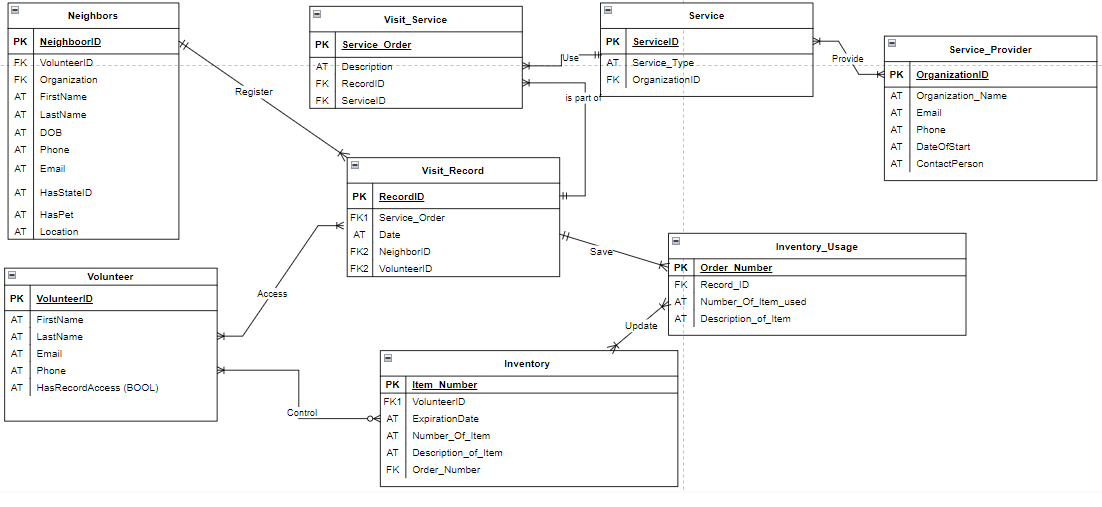
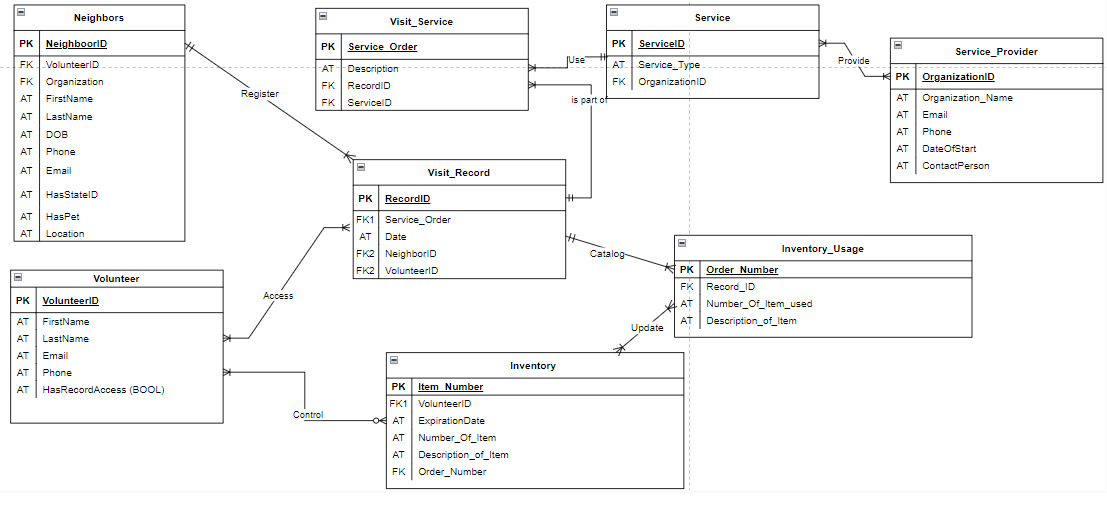
updated business rules and cardinalities

diff --git a/README.md b/README.md
@@ -15,17 +15,25 @@ UP data: Since UP is a local, small non-profit, the only data they want to use i
 
 ## Business Rules (both data and non-data) 
 
-A NEIGHBOR is registered by a VOLUNTEER on the VISIT RECORD only once on their second visit to UP, whereas the RECORD registers optional one NEIGHBOR by at least one VOLUNTEER.
+A NEIGHBOR is registered by a VOLUNTEER on the VISIT RECORD only once on their second visit to UP, whereas the RECORD registers only one NEIGHBOR by at least one VOLUNTEER.
 
-A NEIGHBOR can receive one VISIT SERVICE registration per action registered many times on the VISIT RECORD, and a VISIT SERVICE can be received by optional one NEIGHBOR registred optionally on the VISIT RECORD. 
+A VISIT SERVICE can be part of only one VISIT RECORD, and a VISIT RECORD can be part of many VISIT SERVICE. 
 
-A NEIGHBOR follows guidelines on the usage of INVENTORY items. The NEIGHBOR can acquire optional many items from the INVENTORY, whereas the INVENTORY may have a NEIGHBOR acquiring items optionally many times. 
+A VISIT SERVICE uses only one SERVICE, whereas a SERVICE is used in at least one VISIT SERVICE.
+
+A SERVICE PROVIDER provides at least one SERVICE, whereas a SERVICE can be provided by at least one SERVICE PROVIDER.
+
+The INVENTORY is controled by at least one VOLUNTEER, whereas a VOLUNTEER controls optional many INVENTORY items.
+
+The INVENTORY is updated by at least one INVENTORY USAGE form, whereas an INVENTORY USAGE log updates at least one INVENTORY item.
+
+The VISIT RECORD catalogs at least one INVENTORY USAGE, whereas an INVENTORY USAGE is cataloged by only one VISIT RECORD.
 
 An VOLUNTEER has access to many VISIT RECORD data, whereas the VISIT RECORD can be accessed by many VOLUNTEERS with access.
 
 Using the VISIT SERVICE, a VOLUNTEER can start a process to assist the NEIGHBOR in receiving many VISIT SERVICE. 
 
-A VISIT SERVICE is provided by optional one PARTNER ORGANIZATION, whereas a PARTNER ORGANIZATION can provide at least one SERVICE. The SERVICE is then tracked on the NEIGHBOR’s record and followed up as necessary by at least one UP ADMINISTRATOR. 
+A VISIT SERVICE is provided by one SERVICE PROVIDER , whereas a SERVICE PROVIDER can provide at least one SERVICE. The SERVICE is then tracked on the NEIGHBOR’s record and followed up as necessary by at least one UP ADMINISTRATOR. 
 
 
 ## Entity Names and Definitions
@@ -35,7 +43,6 @@ Attributes: NeighborID, FirstName, LastName, Date of Birth, phone, email HasStat
 
 Volunteer: a person who works at UP initiative and can or cannot have access to records.
 Attributes: VolunteerID, FirstName, LastName, Email, Phone, HasRecordAccess (bool)
-
 
 Visit Service: in order to catalog what activities UP is doing, the visit service registers what specific unique work was done to the Neighbor in consultation.
 Attributes: ServiceOrder, description, RecordID (foreignKey)
@@ -47,7 +54,7 @@ Service Providers: every organization that assist the neighbors, being UP itself
 Attributes: OrganizationID, Organization_Name, Email, Phone, DateofStart, ContactPerson.
 
 Service: The type of services that one organization can provide
-Attributes: ServiceID, Service_Type OrganizationID (foreign key)
+Attributes: ServiceID, Service_Type, OrganizationID (foreign key)
 
 Inventory: the organization has an inventory of clothing, hygiene kits, and food, and there are some guidelines about how many items can a neighbor have. These guidelines are always changing on a case-by-case basis. UP also envisions this process being automatize and displayed on their website so donors can see what the organization needs the most.
 Attributes: Item_Number, VolunteerID, ExpirationDate, NumerofItem, Description_of_Item
@@ -61,12 +68,11 @@ Attributes: Order_Number, RecordID (foreign key), NumberofItem, DescriptionOfIte
 ## Relationships
 
 ### Neighbors to Visit Records
-
 One-to-Many: A NEIGHBOR is registered in at least one VISIT_RECORD, and a VISIT_RECORD registers only one NEIGHBOR per entry.
 
 
 ### Visit Record to Visit Service
-One-to-Many: A VISIT_SERVICE is part of only one VISIT_RECORD, whereas a VISIT_RECORD is part of many VISIT_SERVICE.
+One-to-Many: A VISIT_SERVICE is part of at least one VISIT_RECORD, whereas a VISIT_RECORD is part of one VISIT_SERVICE.
 
 ### Visit Service to Service
 One-to-Many: A VISIT_SERVICE uses only one SERVICE, whereas a SERVICE can be used by many VISIT_SERVICE.
@@ -90,7 +96,7 @@ One-to-Many: A VOLUNTEER is controls optional many INVENTORY, whereas an INVENTO
 
 ## **Entity Relationship Diagram (ERD)**: 
 
-![brief alt text](/workspaces/client-project-up-unhoused-persons-initiative-team/Images/Schemas/Conceptual_Schema_v1.png)
+![brief alt text](Images/Schemas/Conceptual_Schema_v1.png)
 
 # Milestone 2: Project Schema Design
 **Learning Objective:** 
@@ -108,7 +114,7 @@ We would have been more specific with our attributes to prevent confusion. We al
 In order to reorganize our model, we created the entity called Visit Service, which serves to describe what was done during a neighbor visit to UP. Our information now is restructured in a way that the neighbor will be registered on the Visit Record through the Visit Service entity. Additionally, inventory usage is an entity to support information about which items of the inventory were used per visit record. Service Provider was added to ensure coherence with Service, which can be one of UP partners or UP itself. Since a service provider can have more than one service, we created an associative entity called "service" so the visit service has exactly which service was provided by which service provider. Visit record is the central piece of this diagram, and it contains the information regarding what happened in a certain day to a certain neighbor who sought UP assistance.
 
 ## Schema
-![brief alt text](/workspaces/client-project-up-unhoused-persons-initiative-team/Images/Schemas/Conceptual_Schema_04-03-2024.png)
+![brief alt text](Images/Schemas/Conceptual_Schema_04-03-2024.png)
 
 # Milestone 3: Data-Driven Application - Getting Started
 **Deliverable 1:**
@@ -142,16 +148,16 @@ R
 **Deliverable 3:** 
 3-4 data flow diagrams, each with 2 information needs depicted.
 Flow Diagram 1:
-![brief alt text](/workspaces/client-project-up-unhoused-persons-initiative-team/Images/Flow_Diagrams/Flow_Diagram_1.png)
+![brief alt text](Images/Flow_Diagrams/Flow_Diagram_1.png)
 
 Flow Diagram 2:
-![brief alt text](/workspaces/client-project-up-unhoused-persons-initiative-team/Images/Flow_Diagrams/Flow_Diagram_2.png)
+![brief alt text](Images/Flow_Diagrams/Flow_Diagram_2.png)
 
 Flow Diagram 3:
-![brief alt text](/workspaces/client-project-up-unhoused-persons-initiative-team/Images/Flow_Diagrams/Flow_Diagram_3.png)
+![brief alt text](Images/Flow_Diagrams/Flow_Diagram_3.png)
 
 Flow Diagram 4:
-![brief alt text](/workspaces/client-project-up-unhoused-persons-initiative-team/Images/Flow_Diagrams/Flow_Diagram_4.png)
+![brief alt text](Images/Flow_Diagrams/Flow_Diagram_4.png)
 
 
 **Deliverable 4:** 
@@ -161,10 +167,10 @@ one for output).
 
 UI Sketch 1:
 
-![alt text](/workspaces/client-project-up-unhoused-persons-initiative-team/Images/UI_Sketches/UI_1.png)
+![alt text](Images/UI_Sketches/UI_1.png)
 
 UI Sketch 2:
-![alt text](/workspaces/client-project-up-unhoused-persons-initiative-team/Images/UI_Sketches/UI_2.png)
+![alt text](Images/UI_Sketches/UI_2.png)
 
 # Milestone 4: Create Database Schema
 **Deliverables:**
@@ -196,7 +202,7 @@ UI Sketch 2:
 		Renamed in Neighbor “address” to “location” since the population served may not have an address but a certain location they can be found.
 
 Relational Schema with normalized form:
-	![alt text](/workspaces/client-project-up-unhoused-persons-initiative-team/Images/Schemas/Relational_Schema_03-27-24.png)
+	![alt text](Images/Schemas/Relational_Schema_03-27-24.png)
 
 	3. Create a draft SQL script of the Create Table DDL statements needed to implement your database. Pay special attention to column data types and include necessary constraints such as Primary Key, Not Null, or Foreign Key constraints. 
 
@@ -204,4 +210,4 @@ Relational Schema with normalized form:
 	
 	4. Create a python file (models.py) with Peewee models of your schema. Introspect your models to compare the underlying SQL with your draft from Step 3.
 
-		Models.py stored under flaskapp.
+		Models.py stored under flaskapp. (flaskapp/models.py)
